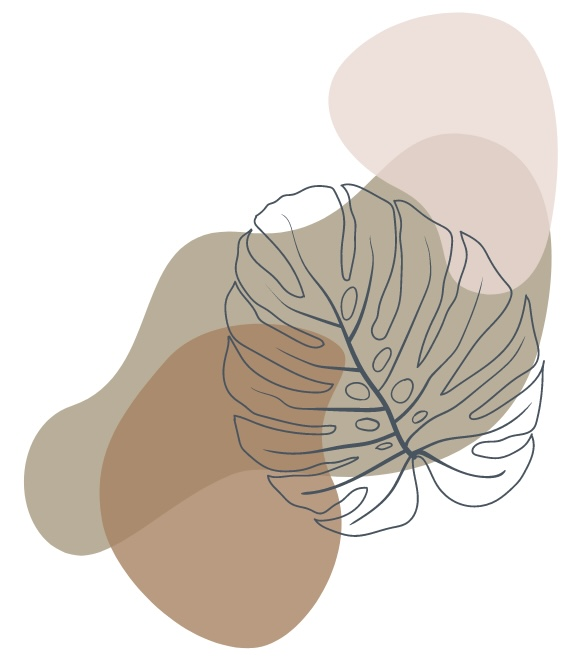
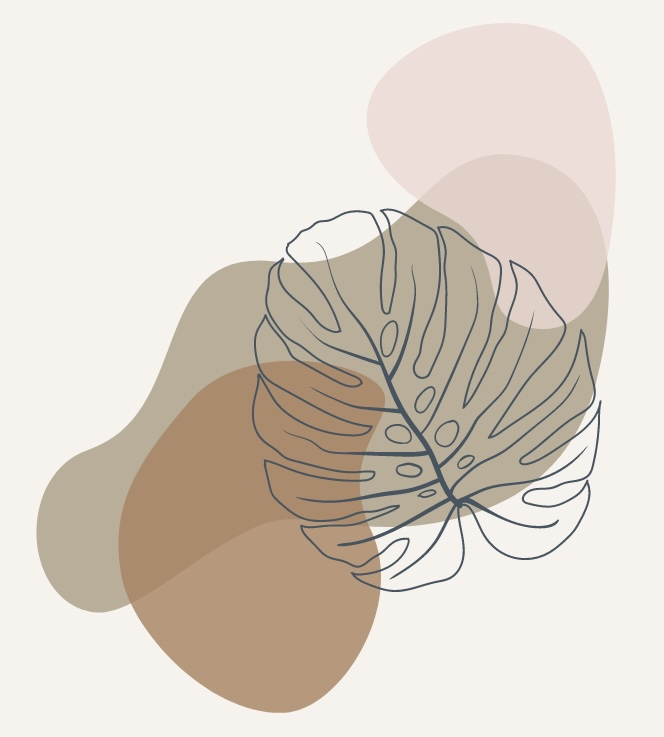
I changed the color, added a navigation bar, and changed the form

diff --git a/css/test.css b/css/test.css
@@ -3,13 +3,27 @@ body {
 	font-family: Arial;
 	font-size: 20px;
 	line-height: 30px;
+	background-color: #f6f2ed;
 	}
+	/* header style*/
 header { 
-	background-color: #f6e0b5;
-	text-align: center;
-	padding-top: 50px;
-	padding-bottom: 50px;
+	background-color: #ecdfd2;
+	width: 100%;
+	display: flex;
+	align-items: center;
+	justify-content: space-between;
+	padding: 0 100px;
 	}
+
+
+ul {
+	list-style-type: none;
+}
+li {
+	float:right;
+	padding:5px;
+
+}
 h1, h2, h3 {
     font-family: 'Mogra', cursive;
 }
@@ -20,8 +34,13 @@ header h1 {
 header img {
     border-radius: 170px;
     width: 200px;
-    border: 20px solid #a39193;
+    border: 20px solid #d2c5b9;
 	}
+
+label {
+	color: white;
+    padding-right: 750px;
+}
 main {
 	max-width: 800px;
 	margin: 0 auto;
@@ -32,7 +51,7 @@ main img {
     }
 h2 {
     font-size: 30px;
-    color:#f6e0b5;
+    color:#c09e95;
    }
 p{
 	font-size: 20px;
@@ -52,7 +71,7 @@ h3 {
    }
 
 footer {
-  background-color: #f6e0b5;
+  background-color: #ecdfd2;
   text-align: center;
   padding-bottom: 10px;
        }

diff --git a/index.html b/index.html
@@ -10,16 +10,16 @@
 <body>
 	  <!-- header element -->
   <header>
+   
     <nav>
-    <label class="logo">Portfolio</label>
-    <ul>
-      <li><a href="#">Home</a></li>
+    <ul> 
+      <li><a href="#" >Home</a></li>
       <li><a href="#">Om mig</a></li>
       <li><a href="#">Erfarenhet och utbildning</a></li>
       <li><a href="#">Projekt</a></li>
     </ul>
   </nav>
-  	<img src="img/H.jpg">
+  	<img src="img/head.jpg">
   	<h1>Asmaa Farah</h1>
   </header>
 
